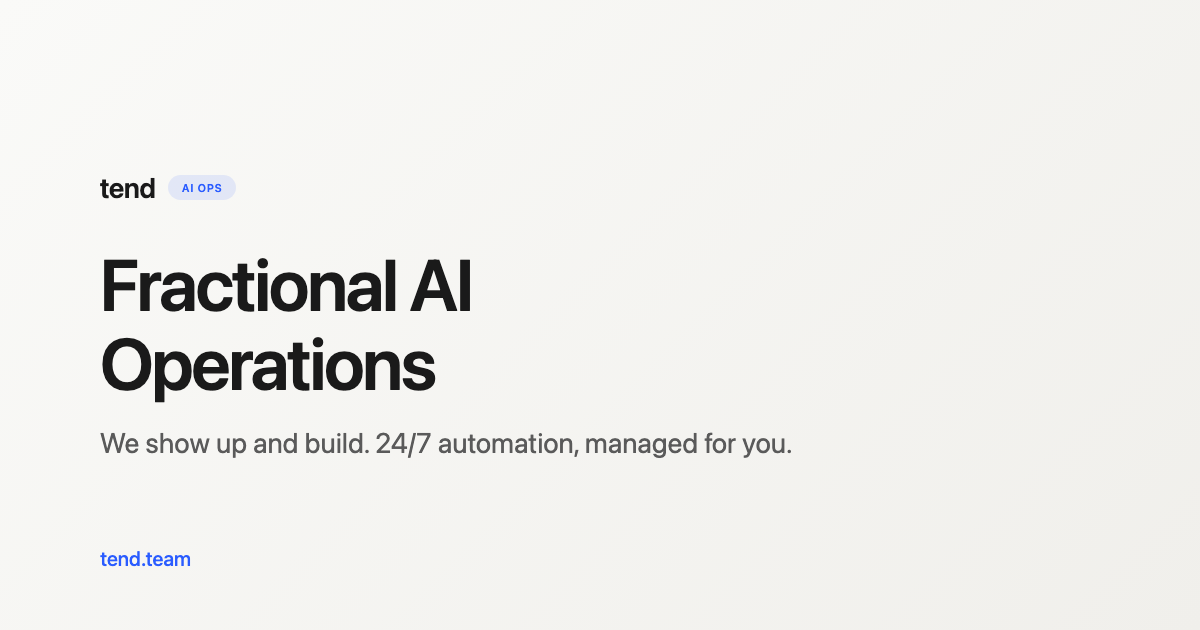
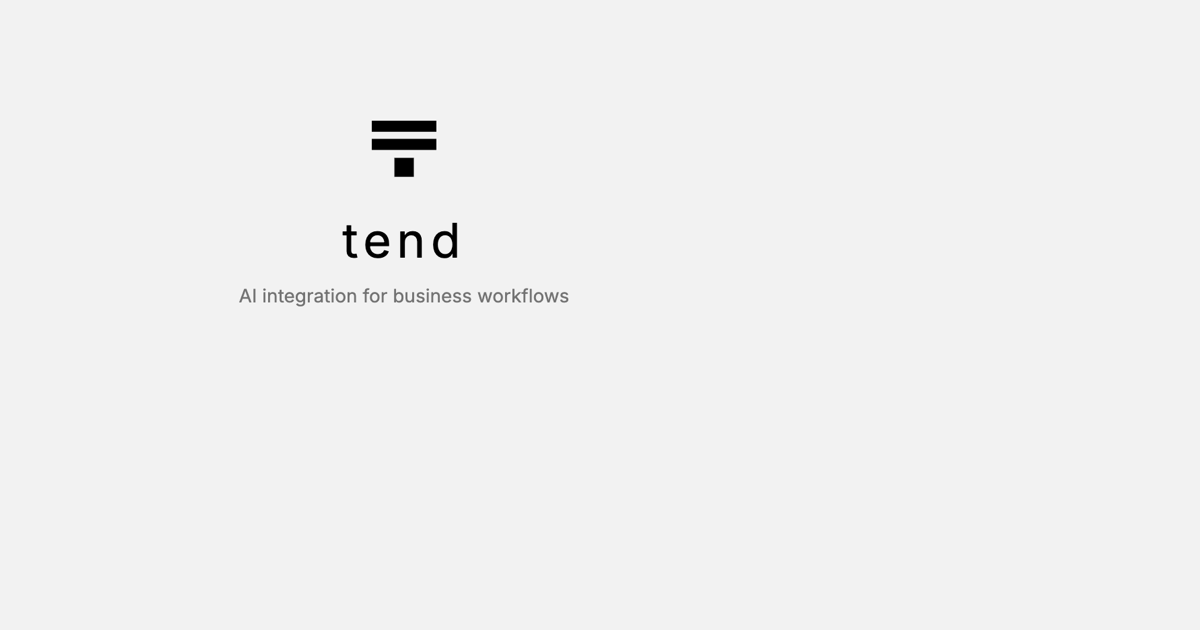
Add OG image for link sharing

diff --git a/index.html b/index.html
@@ -45,6 +45,14 @@ fbq('track', 'PageView');
 <meta property="og:url" content="https://tend.team">
 <meta property="og:title" content="Tend — AI Integration for Business Workflows">
 <meta property="og:description" content="We integrate AI into the workflows that run your business. Mapped to your tools, managed as you evolve.">
+<meta property="og:image" content="https://tend.team/og-image.png">
+<meta property="og:image:width" content="1200">
+<meta property="og:image:height" content="630">
+
+<meta name="twitter:card" content="summary_large_image">
+<meta name="twitter:title" content="Tend — AI Integration for Business Workflows">
+<meta name="twitter:description" content="We integrate AI into the workflows that run your business.">
+<meta name="twitter:image" content="https://tend.team/og-image.png">
 
 <link rel="preconnect" href="https://fonts.googleapis.com">
 <link rel="preconnect" href="https://fonts.gstatic.com" crossorigin>
